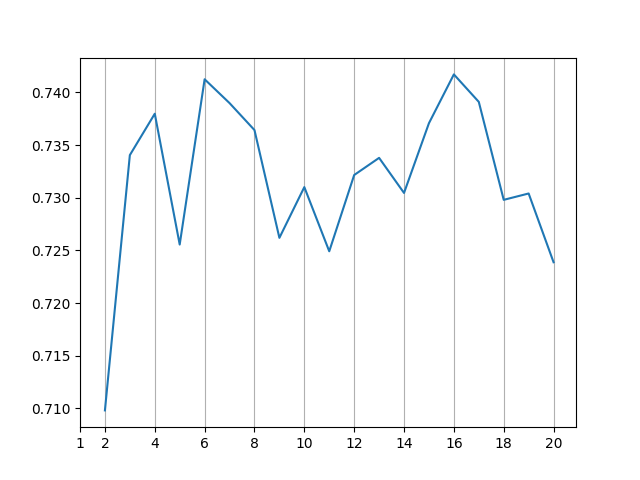
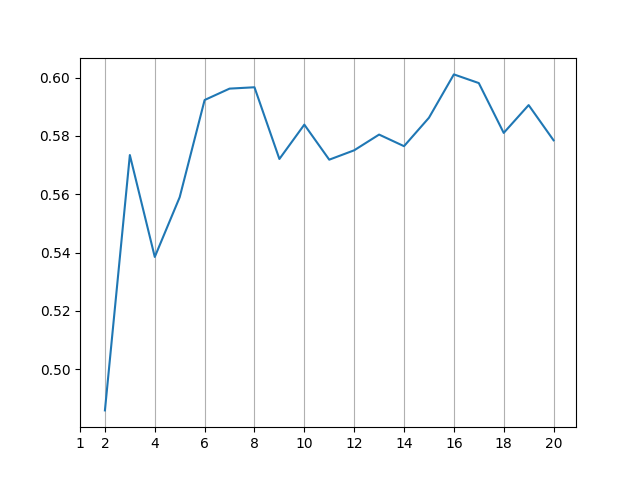
!!! Fixed Silhouette Previous algorithm is incorrect. The graph looks pretty similiar and I suppose you can treat it as a faster, less accurate version of the algorithm, but it's nonetheless incorrect.

diff --git a/judging/silhouette.py b/judging/silhouette.py
@@ -1,5 +1,6 @@
 from genericpath import exists
-from distance import squared_dist_array
+from calculate import filter_dist_with_points
+from distance import squared_dist_array, squared_dist_p
 from plot import line_plot
 
 folder = "./results/"
@@ -8,8 +9,8 @@ def silhouette(ending, coords, folder = folder):
     centroid_count = []
     silhouette_scores = []
     
-    for i in range(2, 21):
-        path = folder + str(i) + ending
+    for z in range(2, 21):
+        path = folder + str(z) + ending
         if exists(path):
             with open(path) as file:
                 file_records = []
@@ -26,52 +27,69 @@ def silhouette(ending, coords, folder = folder):
                     values = "".join(values)
                     values = values.split(",")
                     centroids_list = []
-                    for j in range(0, len(values), 2):
-                        centroids_list.append((float(values[j]), float(values[j + 1])))
+                    for i in range(0, len(values), 2):
+                        centroids_list.append((float(values[i]), float(values[i + 1])))
                     file_centroids.append(centroids_list)
                     
                 if len(file_records) == 0:
                     continue;
                     
-                centroid_count.append(i)
+                centroid_count.append(z)
 
                 # Finding true record centroids
                 true_record = 999999
                 record_centroids = centroids_list[0]
-                for j, record in enumerate(file_records):
+                for i, record in enumerate(file_records):
                     if record < true_record:
                         true_record = record
-                        record_centroids = file_centroids[j]
+                        record_centroids = file_centroids[i]
                 
-                # Calculating A and B
+                # Score calculation
                 # Arrays (# centroids) of arrays (# points) of distances
                 dist_arrays = []
                 for centroid in record_centroids:
                     dist_arrays.append(squared_dist_array(centroid, coords))
-                # Best distances - We want second best
-                closest_dists = []
-                next_closest_dists = []
-                # For each point
-                for j in range(len(dist_arrays[0])):
-                    first_record = 9999999
-                    second_record = 9999999
-                    # For each centroid dist array
-                    for distance_array in dist_arrays:
-                        dist = distance_array[j]
-                        if dist < first_record:
-                            first_record = dist
-                    closest_dists.append(first_record)
-                    for distance_array in dist_arrays:
-                        dist = distance_array[j]
-                        if dist < second_record and dist != first_record:
-                            second_record = dist
-                    next_closest_dists.append(second_record)
-                
-                total_point_score = 0
-                for j in range(len(closest_dists)):
-                    first_record = closest_dists[j]
-                    second_record = next_closest_dists[j]
-                    total_point_score += (second_record - first_record) / second_record
-                silhouette_scores.append(total_point_score / len(closest_dists))
+                _, filtered_points = filter_dist_with_points(coords, dist_arrays)
+
+                point_dist_arrays = []
+                for point in coords:
+                    point_dist_arrays.append(squared_dist_array(point, record_centroids))
+
+                # For each point, find closest and second closest
+                #   For each point in closest, find distance to every
+                #   other point in second closest
+                true_total_score = 0
+                for i, point_centroid_dist in enumerate(point_dist_arrays):
+                    # Finding closest and second closest clusters
+                    closest = 99999999
+                    closest_index = 0
+                    next_closest = 99999999
+                    next_closest_index = 0
+                    
+                    for j, dist in enumerate(point_centroid_dist):
+                        if dist < closest:
+                            next_closest = closest
+                            next_closest_index = closest_index
+                            closest = dist
+                            closest_index = j
+                        elif dist < next_closest:
+                            next_closest = dist
+                            next_closest_index = j
+
+                    this_point = coords[i]
+                    avg_dist_to_closest = 0
+                    avg_dist_to_second = 0
+                    for cluster_point in filtered_points[closest_index]:
+                        dist_to_point = squared_dist_p(this_point, cluster_point)
+                        if dist_to_point == 0: continue
+                        avg_dist_to_closest += dist_to_point
+                    for next_cluster_point in filtered_points[next_closest_index]:
+                        dist_to_next = squared_dist_p(this_point, next_cluster_point)
+                        avg_dist_to_second += dist_to_next
+                    avg_dist_to_closest /= (len(filtered_points[closest_index]) - 1)
+                    avg_dist_to_second /= (len(filtered_points[next_closest_index]))
+                    
+                    true_total_score += (avg_dist_to_second - avg_dist_to_closest) / max(avg_dist_to_second, avg_dist_to_closest)
+                silhouette_scores.append(true_total_score / len(point_dist_arrays))
     
     line_plot(centroid_count, silhouette_scores)

diff --git a/judging/silhouette_inc.py b/judging/silhouette_inc.py
@@ -1,0 +1,113 @@
+# NOTE: This algorithm is incorrect.
+
+from genericpath import exists
+from calculate import filter_dist_any
+from distance import squared_dist_array, squared_dist_p
+from plot import line_plot
+
+folder = "./results/"
+
+def silhouette(ending, coords, folder = folder):
+    centroid_count = []
+    silhouette_scores = []
+    
+    for i in range(2, 21):
+        path = folder + str(i) + ending
+        if exists(path):
+            with open(path) as file:
+                file_records = []
+                file_centroids = []
+                for line in file:
+                    values = line.split(" ")
+                    file_records.append(float(values[0]))
+                    values = "".join(values[1 : ])
+                    values = values.strip()
+                    values = values[1 : len(values) - 1]
+                    values = values.split("(")
+                    values = "".join(values)
+                    values = values.split(")")
+                    values = "".join(values)
+                    values = values.split(",")
+                    centroids_list = []
+                    for j in range(0, len(values), 2):
+                        centroids_list.append((float(values[j]), float(values[j + 1])))
+                    file_centroids.append(centroids_list)
+                    
+                if len(file_records) == 0:
+                    continue;
+                    
+                centroid_count.append(i)
+
+                # Finding true record centroids
+                true_record = 999999
+                record_centroids = centroids_list[0]
+                for j, record in enumerate(file_records):
+                    if record < true_record:
+                        true_record = record
+                        record_centroids = file_centroids[j]
+                
+                dist_arrays = []
+                for centroid in record_centroids:
+                    dist_arrays.append(squared_dist_array(centroid, coords))
+                filtered_dists = filter_dist_any(dist_arrays)
+                
+                # Calculating A and B
+                closest_dists = []
+                next_closest_dists = []
+                for point_index, point in enumerate(coords):
+                    first_record = 9999999
+                    first_record_centroid_index = 0
+                    second_record = 9999999
+
+                    for z, dist_array in enumerate(dist_arrays):
+                        squared_dist = dist_array[point_index]
+                        if squared_dist < first_record:
+                            second_record = first_record
+                            first_record = squared_dist
+                            first_record_centroid_index = z
+                        elif squared_dist < second_record:
+                            second_record = squared_dist
+
+                    first_record_centroid = record_centroids[first_record_centroid_index]
+                    # Hack to calculate mean of all other points in cluster:
+                    # Centroid is already mean, multiply by num of points,
+                    # subtract self, divide by num of points - 1.
+                    
+                    num_points_assoc_centroid = len(filtered_dists[first_record_centroid_index])
+                    cent_x, cent_y = first_record_centroid
+                    # print(cent_x, cent_y)
+                    cent_x = cent_x * num_points_assoc_centroid
+                    cent_y = cent_y * num_points_assoc_centroid
+                    # print(cent_x, cent_y)
+                    cent_x = cent_x - point[0]
+                    cent_y = cent_y - point[1]
+                    # print(cent_x, cent_y)
+                    cent_x = cent_x / (num_points_assoc_centroid - 1)
+                    cent_y = cent_y / (num_points_assoc_centroid - 1)
+                    # print(cent_x, cent_y)
+                    # print()
+                    # print()
+                    # print()
+                    # print()
+                    # print()
+                    # print()
+                    
+                    # print(first_record_centroid)
+                    # print(num_points_assoc_centroid)
+                    # print(cent_x, cent_y)
+                    # print(point)
+                    # print(first_record)
+                    # print(squared_dist_p(point, (cent_x, cent_y)))
+                    # print(second_record)
+                    # return;
+                    closest_dists.append(squared_dist_p(point, (cent_x, cent_y)))
+                    next_closest_dists.append(second_record)
+
+                total_point_score = 0
+                for j in range(len(closest_dists)):
+                    first_record = closest_dists[j]
+                    second_record = next_closest_dists[j]
+                    total_point_score += (second_record - first_record) / max(second_record, first_record)
+                silhouette_scores.append(total_point_score / len(closest_dists))
+    
+    line_plot(centroid_count, silhouette_scores)
